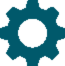
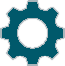
enable map dimm by default and change default map type to carto_light

Changed region(s): [[0.0, 0.0, 1.0, 1.0], [0.2462, 0.2727, 0.7385, 0.7576]]

diff --git a/html/script.js b/html/script.js
@@ -780,6 +780,8 @@ function initialize_map() {
 	ZoomLvl = Number(localStorage['ZoomLvl']) || DefaultZoomLvl;
 	ZoomLvlCache = ZoomLvl;
 	MapType_tar1090 = localStorage['MapType_tar1090'];
+	if (!MapType_tar1090)
+		MapType_tar1090="carto_light_all";
 
 	// Set SitePosition, initialize sorting
 	if (SiteShow && (typeof SiteLat !==  'undefined') && (typeof SiteLon !==  'undefined')) {
@@ -989,7 +991,7 @@ function initialize_map() {
 		}
 	}
 
-	if (localStorage['MapDim'] === "true") {
+	if (localStorage['MapDim'] == undefined || localStorage['MapDim'] == "true") {
 		toggleMapDim(true);
 	}
 

diff --git a/html/style.css b/html/style.css
@@ -443,7 +443,7 @@ select.error, textarea.error, input.error {
 	width: 22pt;
 	height: 22pt;
     cursor: pointer;
-	margin: 4pt;
+	margin: 3pt;
 	margin-top: 8pt;
 	margin-bottom: 8pt;
     background-image: url('images/settings-icon.png');
